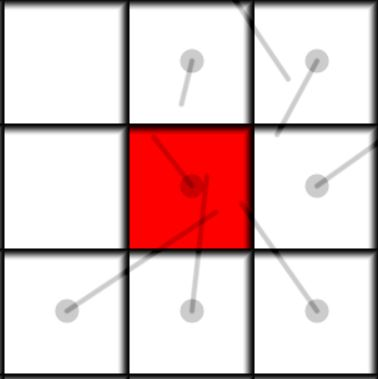
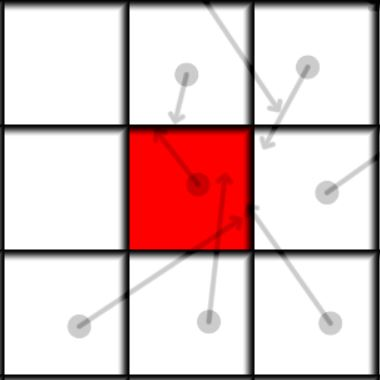
First part

Changed region(s): [[0.0, 0.0, 1.0, 1.0]]

diff --git a/index.html b/index.html
@@ -7,7 +7,8 @@ layout: default
     <article class="post">
 
       <h1><a href="{{ site.baseurl }}{{ post.url }}">{{ post.title }}</a></h1>
-
+		
+	  <center><img src="{{ site.baseurl }}/images/{{ post.image }}" style="width:60%;"></center>
       <div class="entry">
         {{ post.excerpt }}
       </div>

diff --git a/_layouts/post.html b/_layouts/post.html
@@ -7,7 +7,9 @@ layout: default
 
 <article class="post">
   <h1>{{ page.title }}</h1>
-
+	
+  <center><img src="{{ site.baseurl }}/images/{{ page.image }}" style="width:60%;"></center>
+  
   <div class="entry">
     {{ content }}
   </div>

diff --git a/style.scss b/style.scss
@@ -25,7 +25,7 @@ body {
 
 .container {
   margin: 0 auto;
-  max-width: 740px;
+  max-width: 1000px;
   padding: 0 10px;
   width: 100%;
 }

diff --git a/_sass/_highlights.scss b/_sass/_highlights.scss
@@ -1,5 +1,5 @@
 
-.highlight {
+pre.highlight {
   background-color: #efefef;
   padding: 7px 7px 7px 10px;
   border: 1px solid #ddd;

diff --git a/_posts/2020-8-31-Reintegration-Tracking.md b/_posts/2020-8-31-Reintegration-Tracking.md
@@ -1,19 +1,20 @@
 ---
 layout: post
 title: Reintegration tracking
+image: ReintegrationTracking.png
 ---
 
-In this blog post I'll explain the advection algorithm I used in my latest simulations, including [Paint streams](https://www.shadertoy.com/view/WtfyDj) and [Everflow](https://www.shadertoy.com/view/ttBcWm).
+In this blog post I'll explain this advection algorithm and how to use it to make advanced fluid simulations like the ones I made, including [Paint streams](https://www.shadertoy.com/view/WtfyDj) and [Everflow](https://www.shadertoy.com/view/ttBcWm).
 Before starting I should give a big thanks to my friend [Wyatt](https://www.shadertoy.com/user/wyatt) for giving useful suggestions on building this algorithm.
 
 <center><iframe style="width:640px;height:360px;" frameborder="0" src="https://www.shadertoy.com/embed/WtfyDj?gui=true&amp;t=10&amp;paused=false" allowfullscreen=""></iframe></center>
 
 Looks really smooth doesn't it? It even captures droplets with almost close to pixel level precision. And while it does model a fluid with a boundary it does not use particles directly like in SPH, but is actually a semi-Lagrangian grid based algorithm. 
 
-Let's start with a brief history, the initial idea for this algorithm came from trying to extend screen space [voronoi particle tracking](https://www.facebook.com/groups/shadertoy/?post_id=567902837124080) to avoid particle loss, indeed when trying to store the particle state in screen space as close to the particle as we can, in the case of overlap one of the particles will be lost, and there is no way to avoid it. But actually we can reformulate the problem, what if we don't try to avoid particle overlap but tried to conserve the total mass? Like by adding the overlapping particle masses together and weighting their velocities and positions by mass. 
-Actually that was already tried by [stb](https://www.shadertoy.com/view/MdtGDX), but it immidiatly becomes apparent that the total number of particles drops proportionally to the particle/pixel density because of them combining together, you might ask if there a way to separate them back, or if there is a way to achieve approximate particle number conservation? In fact, it is possible, but let's overview how he does the particle tracking first.
+Let's start with a brief history, the initial idea for this algorithm came from trying to extend screen space [voronoi particle tracking](https://www.facebook.com/groups/shadertoy/?post_id=567902837124080) to avoid particle loss, indeed when trying to store the particle state in screen space as close to the particle location as we can, in the case of overlap one of the particles will be lost, and there is no way to avoid it. But actually we can reformulate the problem, what if we don't try to avoid particle overlap but tried to conserve the total mass? Like by adding the overlapping particle masses together and weighting their velocities and positions by mass. 
+Actually that was already tried by [stb](https://www.shadertoy.com/view/MdtGDX), but it immidiatly becomes apparent that the total number of particles drops proportionally to the particle/pixel density because of them combining together, you might ask if there is a way to separate them back, or if there is a way to achieve approximate particle number conservation? In fact, it is possible, but let's overview how he does the particle tracking first.
 
-## Cellular automaton particle tracking
+### Cellular automaton particle tracking
 This algorithm is in fact similar to a [lattice gas automaton](https://en.wikipedia.org/wiki/Lattice_gas_automaton) where the state of each cell is defined by a few discrete levels, is the particle in the cell and in which discrete direction it is moving. In our case instead of using a few discrete states we store the position, velocity and mass of the particle within the cell as floats *(or any other number type, depends on the precision you want to achieve, I actually used 2 int16's per channel since Shadertoy only has a 4 channel output per pixel and I needed to store at least 5 numbers)* 
 
 <center>
@@ -29,22 +30,178 @@ This algorithm is in fact similar to a [lattice gas automaton](https://en.wikipe
 </table>
 </center>
 
+The main idea of the algorithm is to loop over all neighbors of the current cell(including itself), integrate the position of each neighbor particle and add it if it ends up in this cell. Above is a visualization of how it looks like. Each cell has a particle with a mass, the mass is shown by opacity, so 0 mass is invisible and 1 is completely dark. The red cell is our current cell for which we want to find its future state, the future position of the particles is shown by the arrow. We can see that there is more than one particle moving into the red cell. So in the end all of the particles that end up in the same cell are summed and their positions and velocities are averaged. It's quite a simple algorithm, but it has one limitation, to ensure that we counted every possible particle that might end up in this cell we would either need to loop over all the cells, which is highly expensive, or limit the maximum velocity of the particles to make the search radius finite, and hopefully only 1 pixel wide. 
 
+Obviously the second option is much better in our context, and in fact if we want to track particles with velocities so fast that they traverse the grid in 1 frame its actually cheaper to do lots of smaller steps with a 1 pixel neighborhood instead of counting all cells in one step, since \\( 9 \sqrt{N} < N \\) , where N is the number of cells, and the square root is because we need to apply the operation only a linear amount of times, instead of applying it for every cell. And the 9 is the number of neighbors. In 3D it would equivalently be  \\( 27 N^{1/3} < N \\)  which is even more efficient. I should note that more steps does not mean better quality, since the particles may combine together on the way.
+
+Here is a pseudo-code glsl implementation of this algorithm:
 ```glsl
 //this cell position
-ivec2 p;
+ivec2 pos;
 //values stored in the cell
-vec2 vel, pos;
-float mass;
+vec2 velocity = vec2(0.), position = vec2(0.);
+float mass = 0.;
 //find and average the particles 
 //that land in this cell after a time step dt
+for(int x = -R; x <= R; x++) //only check the neighbors at radius R
+  for(int y = -R; y <= R; y++)
+  {
+      //get the particle in this neighbor cell from the previous frame
+      particle P = getParticle(pos + ivec2(x,y));
+      //integrate the particle position
+      P.X += P.V*dt;
+      //check if the particle is inside of this cell
+      if(inCell(P, pos))
+      {
+        mass += P.M; //add the particle mass to this cell
+        position += P.X*P.M; //add the particle position weighted by mass
+        velocity += P.V*P.M; //add the particle velocity weighted by mass(momentum)
+      }
+  } 
 
-//only check the neighbors at radius R
-for(int x = -R; x <= R; x++)
+//normalize
+if(mass > 0.0) //if not vacuum
 {
-    for(int y = -R; y <= R; y++)
-    {
-        particle P = getParticle(p + ivec2(x,y));
-    } 
+  position /= mass; //center of mass
+  velocity /= mass; //average velocity
 }
 ```
+
+### Dividing particles
+
+To combat the problem of a decreasing particle number we can try and divide each particle into M virtual particles with distributed positions that might end up in different cells and thus increase the total number of particles. 
+<center>
+<img src="{{ site.baseurl }}/images/ParticleCA_div_frame1.JPG" style="width:250px;height:250px;">
+</center>
+
+The radius of the distribution defines how likely is the particle is to multiply. If the all the virtual particles end up inside of a single cell the particle would not divide and stay essentially the same(if the average particle of the virtual particles is equal to the origial particle). To make it properly conservative we just need to need to divide the mass of the particle into a number of equal chunks, and make sure the distribution average is zero.
+
+On the picture above and in the code below we see an example for a 5 virtual particle distribution, the average of the distribution directions is zero and its radius is 0.1 pixes.
+
+Here is the code, the only addition are the diffusion directions and a loop for each of the virtual particles
+```glsl
+//this cell position
+ivec2 pos;
+//values stored in the cell
+vec2 velocity = vec2(0.), position = vec2(0.);
+float mass = 0.;
+
+//diffusion radius
+float difR = 0.1;
+//diffusion directions
+vec2 difDir[5] = {vec2(0,0),vec2(1,0),vec2(-1,0),vec2(0,1),vec2(0,-1)};
+
+//find and average the particles 
+//that land in this cell after a time step dt
+for(int x = -R; x <= R; x++) //only check the neighbors at radius R
+  for(int y = -R; y <= R; y++)
+  {
+      //get the particle in this neighbor cell from the previous frame
+      particle P = getParticle(pos + ivec2(x,y));
+      //integrate the particle position
+      P.X += P.V*dt;
+      for(int i = 0; i < 5; i++) //divide particle into 5
+      {
+        particle difP = P;
+        difP.X += difR*difDir[i]; //move particle in one of the diffusion directions
+        difP.M /= 5.0; //divide mass into 5 particles
+
+        //check if the divided particle is inside of this cell
+        if(inCell(difP, pos))
+        {
+          mass += difP.M; //add the particle mass to this cell
+          position += difP.X*difP.M; //add the particle position weighted by mass
+          velocity += difP.V*difP.M; //add the particle velocity weighted by mass(momentum)
+        }
+      }
+  } 
+
+//normalize
+if(mass > 0.0) //if not vacuum
+{
+  position /= mass; //center of mass
+  velocity /= mass; //average velocity
+}
+```
+
+You might ask if its possible to achieve a perfect particle number conservation, and not just total mass conservation. Actually to do that we can just need to divide the mass into integer chunks that sum into the original mass, the virtual particles need not to be the same, so for example one particle with mass 3 can divide into 2 particles with mass 2 and 1. Dividing into more than 2 virtual particles is pretty much the same, even though a bit more complicated. 
+
+### Using particle distributions
+
+The previous algorithm did solve the problem sufficiently well, but did have some shorcomings, like the additional loop which makes that algorthm far slower to execute and discontinuities in density that made it harder to implement fluid simulations. We can actually do better. Lets look at the limiting case of an infinite number of virtual particles, in such a case we end up with a continuous distribution of mass that we can call \\( \rho(\vec{X}) \\) (the distribution should also be centered on the particle position). So to find the amount of mass (and its center) each particle deposits into this cell we need to integrate the distribution within the current cell bounds. Our equations are:
+\\[ M = \int \int_{\Omega} \rho(\vec{X})d\vec{X} -  \textrm{mass} \\] 
+\\[ \vec{C} = \frac{1}{M} \int \int_{\Omega} \vec{X}\rho(\vec{X})d\vec{X} - \textrm{center of mass} \\] 
+Where \\( \Omega \\) is the cell region. But which distribution should we use? If we try to use a normal distribution we will end up with the problem of how to compute it, since there is no analytical solution for such an integral, and we would need to numerically integrate the distribution, which is not much better performance-wise than the previous algorithm. The simplest distribution that gives an analytical solution we can use is actually a uniform axis alligned box, for which the mass and the center of mass are trivial to compute analytically. We can also try a uniform circular distribution or a nonuniform circular distribution equal to \\( 1 - |\vec{X_0} - \vec{X}|^2 \\) for \\(  |\vec{X_0} - \vec{X}| \leqslant 1\\) and equal to \\( 0 \\) for \\(  |\vec{X_0} - \vec{X}| > 1 \\) where \\( \vec{X_0} \\) is the particle position, but lets try out the simplest approach.
+<center>
+<table>
+  <tr>
+    <th><img src="{{ site.baseurl }}/images/Reintegration_0_2.JPG" style="width:250px;height:250px;"></th>
+    <th><img src="{{ site.baseurl }}/images/Reintegration_0_55.JPG" style="width:250px;height:250px;"></th>
+  </tr>
+  <tr>
+    <th><b>Diffusion radius 0.2</b></th>
+    <th><b>Diffusion radius 0.55</b></th>
+  </tr>
+</table>
+</center>
+To find the mass and center of mass of the distribution within the bounds of the cell we only need to figure out the overlap box of the cell and the particle distribution. It's relative area will be the relative mass and its center is just the center of mass.
+It can be implemented like this: 
+```glsl
+//this cell position
+ivec2 pos;
+//values stored in the cell
+vec2 velocity = vec2(0.), position = vec2(0.);
+float mass = 0.;
+//find and average the particles 
+//that land in this cell after a time step dt
+for(int x = -R; x <= R; x++) //only check the neighbors at radius R
+  for(int y = -R; y <= R; y++)
+  {
+      //get the particle in this neighbor cell from the previous frame
+      particle P = getParticle(pos + ivec2(x,y));
+      //integrate the particle position
+      P.X += P.V*dt;
+      //find the overlap of the diffused particle distribution with this cell
+      
+      vec3 ovrlp = overlap(P.X, pos, diffusion_radius);
+      float overlapRelativeArea = ovrlp.z;
+      vec2 overlapCenterOfMass = ovrlp.xy;
+      float overlapMass = overlapRelativeArea*P.M;
+
+      mass += overlapMass; //add the overlap mass to this cell
+      position += overlapCenterOfMass*overlapMass; //add the overlap center weighted by mass
+      velocity += P.V*overlapMass; //add the particle velocity weighted by overlap mass(momentum)
+  } 
+
+//normalize
+if(mass > 0.0) //if not vacuum
+{
+  position /= mass; //center of mass
+  velocity /= mass; //average velocity
+}
+```
+
+The axis alligned box overlap calculation is rather straightforward 
+```glsl
+vec3 overlap(vec2 x, vec2 p, float diffusion_radius)
+{
+    vec4 aabb0 = vec4(p - 0.5, p + 0.5); //cell box
+    vec4 aabb1 = vec4(x - diffusion_radius, x + diffusion_radius); //particle box
+    vec4 aabbX = vec4(max(aabb0.xy, aabb1.xy), min(aabb0.zw, aabb1.zw)); //overlap box
+    vec2 center = 0.5*(aabbX.xy + aabbX.zw); //center of mass 
+    vec2 size = max(aabbX.zw - aabbX.xy, 0.); //only positive
+    float m = size.x*size.y/(4.0*diffusion_radius*diffusion_radius); //relative area
+    //if any of the dimensions are 0 then the mass ratio is 0
+    return vec3(center, m);
+}
+```
+As you can see we don't need to loop over virtual particles anymore since the solution is analytical, so the performance of this approach is the same as in the original cellular automaton particle tracker with the added benefit of giving much smoother results.
+
+And here is a real time visualization of the reintegration process with diffusion radius 0.35
+<center><iframe style="width:640px;height:360px;" frameborder="0" src="https://www.shadertoy.com/embed/WlSfWD?gui=true&amp;t=10&amp;paused=false" allowfullscreen=""></iframe></center>
+
+In fact this algorithm has some quite interesting properties, depending on the radius of the distribution the behaviour can change from particle-like to field-like as shown in the simulation below(you need to unpause it). The distribution diameter oscillates between 0.75 and 1.25:
+<center><iframe style="width:640px;height:360px;" frameborder="0" src="https://www.shadertoy.com/embed/tl2fWD?gui=true&amp;t=10&amp;paused=true" allowfullscreen=""></iframe></center>
+### Using the SPH formulation instead of finite differences to compute forces
+
+### Storing more properties inside a cell 
